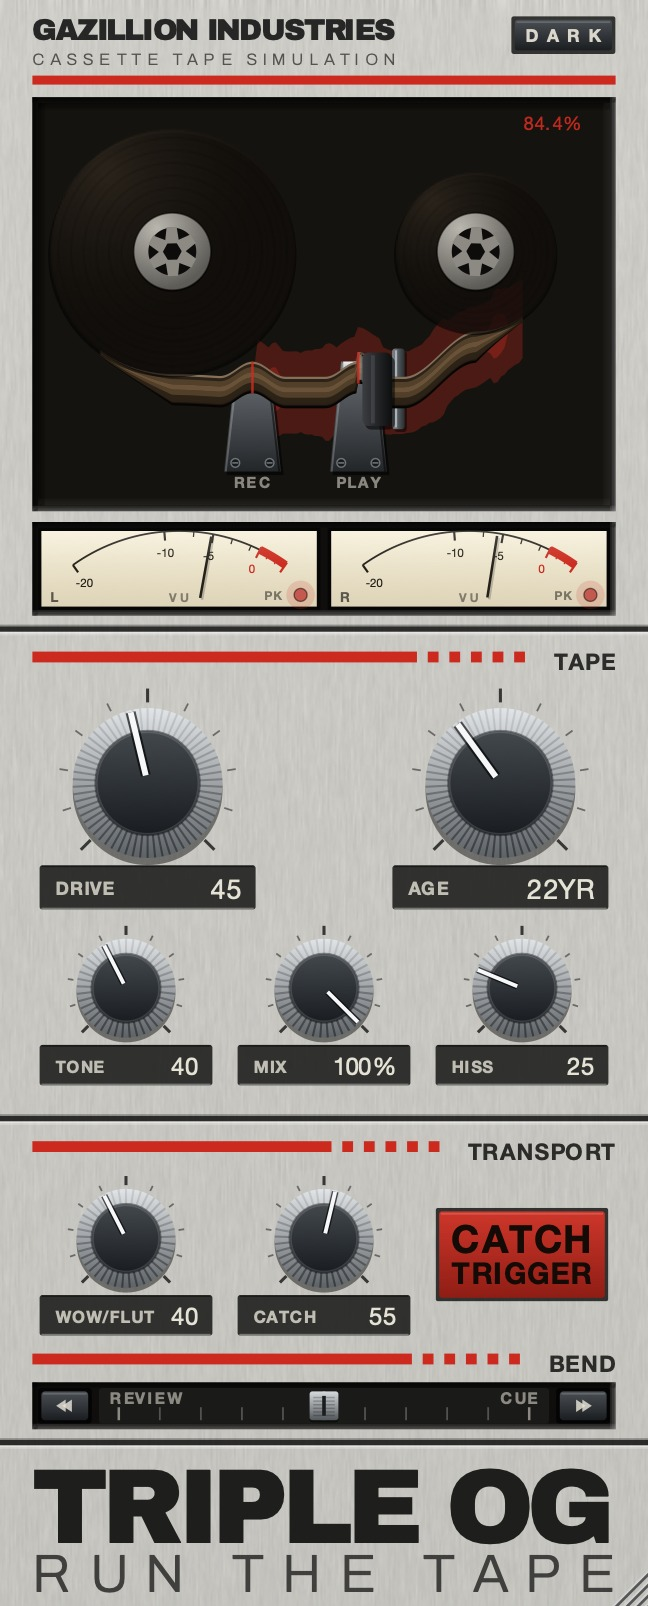
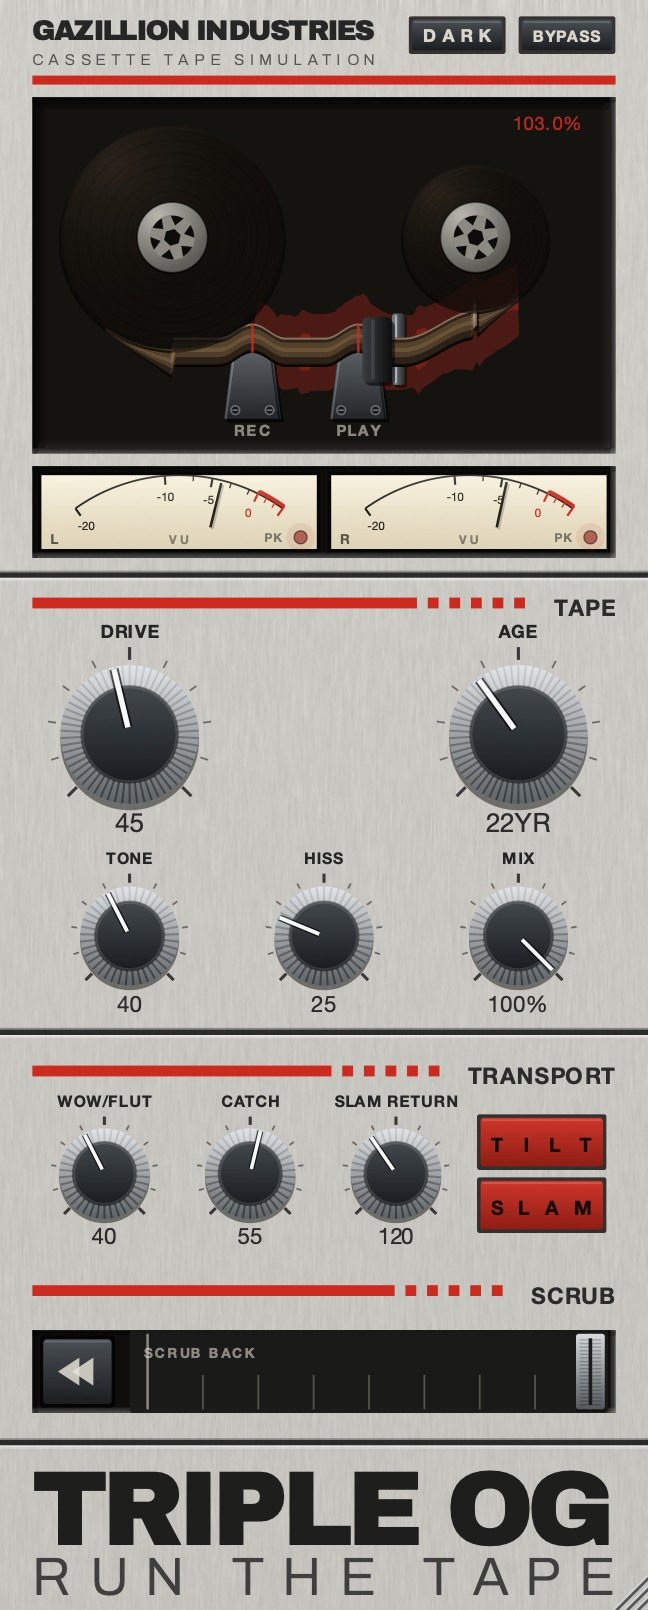
TRIPLE OG 1.1.0 panel imagery; version metadata for F(ilter)12 and TRIPLE OG
- tripleog/tripleog-dark.jpg and tripleog-light.jpg: re-rendered from the 1.1.0 editor
  (tools/uishot, same knob settings as before). The panel is now 648x1610, so width/height
  attributes move from 1606 to 1610 in tripleog.html and on the index.html shelf
- tripleog/og.jpg: same navy gradient and placement, 1.1.0 panel
- tripleog.html alt text and og:image:alt describe TILT, SLAM, SLAM RETURN and SCRUB
  instead of CATCH TRIGGER and BEND
- JSON-LD softwareVersion: F(ilter)12 1.0.1 -> 1.0.2, TRIPLE OG 1.0.0 -> 1.1.0
  (the versions on the store)

diff --git a/tripleog.html b/tripleog.html
@@ -158,7 +158,7 @@ window.GZ_ATTR = (function(){
 <meta property="og:image" content="https://gazillionindustries.com/tripleog/og.jpg">
 <meta property="og:image:width" content="1200">
 <meta property="og:image:height" content="630">
-<meta property="og:image:alt" content="The TRIPLE OG plug-in panel: two tape reels with the tape running between the record and play heads, a pair of VU meters, TAPE and TRANSPORT sections of knobs, and a BEND strip.">
+<meta property="og:image:alt" content="The TRIPLE OG plug-in panel: two tape reels with the tape running between the record and play heads, a pair of VU meters, TAPE and TRANSPORT sections of knobs, TILT and SLAM buttons, and a SCRUB strip.">
 <meta name="twitter:image" content="https://gazillionindustries.com/tripleog/og.jpg">
 <meta name="twitter:card" content="summary_large_image">
 <meta name="twitter:title" content="TRIPLE OG - cassette tape simulation">
@@ -167,7 +167,7 @@ window.GZ_ATTR = (function(){
      a file that is not there is worse than not claiming one - the card falls
      back to the image either way, but a broken video URL is cached. The four
      video tags come across from the sibling page the day the capture lands. -->
-<script type="application/ld+json">{"@context":"https://schema.org","@graph":[{"@type":"SoftwareApplication","name":"TRIPLE OG","applicationCategory":"MultimediaApplication","applicationSubCategory":"Audio plug-in","operatingSystem":"macOS 10.13 or later, Windows 10 or later","softwareVersion":"1.0.0","url":"https://gazillionindustries.com/tripleog.html","image":"https://gazillionindustries.com/tripleog/og.jpg","description":"A cassette transport plug-in for macOS and Windows. TONE, HISS, AGE in years, DRIVE and MIX shape the medium; WOW FLUT and CATCH are the transport, and CATCH is a stateful drag and recovery rather than more wobble. SCRUB is a hand on the tape: drag it back and the head runs back across the tape, let go and it rebounds home. SLAM is a tape stop. AU, VST3 and standalone.","featureList":["TONE: the playback system's brightness","HISS: a continuous broadband noise bed, partly decorrelated across the channels","AGE: nought to sixty years of deterioration, as one macro","DRIVE: soft asymmetric saturation with magnetic hysteresis, 2x oversampled","WOW FLUT: composite transport instability, not a single sine","CATCH: a stateful drag, jam and recovery engine, with a manual trigger","SCRUB: drag the head back across the tape, rebounds home on release","SLAM: a tape stop, with SLAM RETURN setting how long the stop takes","MIX, on the face, defaulting to 100%","Head gap loss that moves with the transport","Stereo VU meters against a 0 VU reference","A transport display: reels, tape, heads and the tension between them","Two finishes, black and brushed aluminium","Resizable window","Universal binary, Apple Silicon and Intel","Windows 10 or later, 64-bit, VST3","Works offline"],"keywords":"cassette plugin, tape plugin, wow and flutter VST, tape stop plugin, lo-fi tape, hiss plugin, tape saturation, boom bap, lo-fi hip hop, AU plugin, VST3, macOS audio plugin, windows VST3, tape transport, varispeed tape","softwareRequirements":"macOS 10.13 or later, or Windows 10 or later 64-bit; a host supporting AU or VST3, or none for the standalone","@id":"https://gazillionindustries.com/tripleog.html#tripleog","author":{"@id":"https://gazillionindustries.com/#tony"},"publisher":{"@id":"https://gazillionindustries.com/#gazillion"},"creator":{"@id":"https://gazillionindustries.com/#tony"},"installUrl":"https://gazillionindustries.com/tripleog.html","inLanguage":"en","offers":{"@type":"Offer","priceCurrency":"USD","price":"29.00","availability":"https://schema.org/InStock"}},{"@type":"Organization","@id":"https://gazillionindustries.com/#gazillion","name":"Gazillion Industries LLC","alternateName":"Gazillion Industries","url":"https://gazillionindustries.com/","email":"tony@gazillionindustries.com","founder":{"@id":"https://gazillionindustries.com/#tony"}},{"@type":"Person","@id":"https://gazillionindustries.com/#tony","name":"Tony Barko","alternateName":"Anthony Greg Barko","jobTitle":"Founder","worksFor":{"@id":"https://gazillionindustries.com/#gazillion"},"sameAs":["https://apps.apple.com/us/developer/anthony-greg-barko/id1866031805"]},{"@type":"WebSite","@id":"https://gazillionindustries.com/#website","url":"https://gazillionindustries.com/","name":"Gazillion Industries","inLanguage":"en","publisher":{"@id":"https://gazillionindustries.com/#gazillion"}}]}</script>
+<script type="application/ld+json">{"@context":"https://schema.org","@graph":[{"@type":"SoftwareApplication","name":"TRIPLE OG","applicationCategory":"MultimediaApplication","applicationSubCategory":"Audio plug-in","operatingSystem":"macOS 10.13 or later, Windows 10 or later","softwareVersion":"1.1.0","url":"https://gazillionindustries.com/tripleog.html","image":"https://gazillionindustries.com/tripleog/og.jpg","description":"A cassette transport plug-in for macOS and Windows. TONE, HISS, AGE in years, DRIVE and MIX shape the medium; WOW FLUT and CATCH are the transport, and CATCH is a stateful drag and recovery rather than more wobble. SCRUB is a hand on the tape: drag it back and the head runs back across the tape, let go and it rebounds home. SLAM is a tape stop. AU, VST3 and standalone.","featureList":["TONE: the playback system's brightness","HISS: a continuous broadband noise bed, partly decorrelated across the channels","AGE: nought to sixty years of deterioration, as one macro","DRIVE: soft asymmetric saturation with magnetic hysteresis, 2x oversampled","WOW FLUT: composite transport instability, not a single sine","CATCH: a stateful drag, jam and recovery engine, with a manual trigger","SCRUB: drag the head back across the tape, rebounds home on release","SLAM: a tape stop, with SLAM RETURN setting how long the stop takes","MIX, on the face, defaulting to 100%","Head gap loss that moves with the transport","Stereo VU meters against a 0 VU reference","A transport display: reels, tape, heads and the tension between them","Two finishes, black and brushed aluminium","Resizable window","Universal binary, Apple Silicon and Intel","Windows 10 or later, 64-bit, VST3","Works offline"],"keywords":"cassette plugin, tape plugin, wow and flutter VST, tape stop plugin, lo-fi tape, hiss plugin, tape saturation, boom bap, lo-fi hip hop, AU plugin, VST3, macOS audio plugin, windows VST3, tape transport, varispeed tape","softwareRequirements":"macOS 10.13 or later, or Windows 10 or later 64-bit; a host supporting AU or VST3, or none for the standalone","@id":"https://gazillionindustries.com/tripleog.html#tripleog","author":{"@id":"https://gazillionindustries.com/#tony"},"publisher":{"@id":"https://gazillionindustries.com/#gazillion"},"creator":{"@id":"https://gazillionindustries.com/#tony"},"installUrl":"https://gazillionindustries.com/tripleog.html","inLanguage":"en","offers":{"@type":"Offer","priceCurrency":"USD","price":"29.00","availability":"https://schema.org/InStock"}},{"@type":"Organization","@id":"https://gazillionindustries.com/#gazillion","name":"Gazillion Industries LLC","alternateName":"Gazillion Industries","url":"https://gazillionindustries.com/","email":"tony@gazillionindustries.com","founder":{"@id":"https://gazillionindustries.com/#tony"}},{"@type":"Person","@id":"https://gazillionindustries.com/#tony","name":"Tony Barko","alternateName":"Anthony Greg Barko","jobTitle":"Founder","worksFor":{"@id":"https://gazillionindustries.com/#gazillion"},"sameAs":["https://apps.apple.com/us/developer/anthony-greg-barko/id1866031805"]},{"@type":"WebSite","@id":"https://gazillionindustries.com/#website","url":"https://gazillionindustries.com/","name":"Gazillion Industries","inLanguage":"en","publisher":{"@id":"https://gazillionindustries.com/#gazillion"}}]}</script>
 <!-- Same Umami site and same Meta pixel as the sibling pages: one business, one
      property. Keeping them identical is what lets the pages be compared. -->
 <script defer src="https://cloud.umami.is/script.js"
@@ -808,12 +808,12 @@ h1.mark-block{font-size:inherit}
         </div>
       </div>
       <div class="slide">
-        <img src="tripleog/tripleog-light.jpg" width="648" height="1606"
+        <img src="tripleog/tripleog-light.jpg" width="648" height="1610"
              alt="The same TRIPLE OG panel on a brushed aluminium case, the printing dark and the vermilion accent held.">
       </div>
       <div class="slide">
-        <img src="tripleog/tripleog-dark.jpg" width="648" height="1606" loading="lazy"
-             alt="The TRIPLE OG panel in its black finish: two tape reels above the record and play heads with the tape rippling between them, stereo VU meters, a TAPE section with DRIVE, AGE, TONE, MIX and HISS, a TRANSPORT section with WOW/FLUT, CATCH and a CATCH TRIGGER button, and a BEND strip running from REVIEW to CUE.">
+        <img src="tripleog/tripleog-dark.jpg" width="648" height="1610" loading="lazy"
+             alt="The TRIPLE OG panel in its black finish: two tape reels above the record and play heads with the tape rippling between them, stereo VU meters, a TAPE section with DRIVE, AGE, TONE, MIX and HISS, a TRANSPORT section with WOW/FLUT, CATCH and SLAM RETURN beside TILT and SLAM buttons, and a SCRUB strip.">
       </div>
     </div>
     <button class="nav nav--prev" type="button" aria-label="Previous">&lsaquo;</button>

diff --git a/f12.html b/f12.html
@@ -171,7 +171,7 @@ window.GZ_ATTR = (function(){
 <meta property="og:video:type" content="video/mp4">
 <meta property="og:video:width" content="340">
 <meta property="og:video:height" content="980">
-<script type="application/ld+json">{"@context":"https://schema.org","@graph":[{"@type":"SoftwareApplication","name":"F(ilter)12","alternateName":"F12","applicationCategory":"MultimediaApplication","applicationSubCategory":"Audio plug-in","operatingSystem":"macOS 10.13 or later, Windows 10 or later","softwareVersion":"1.0.1","url":"https://gazillionindustries.com/f12.html","image":"https://gazillionindustries.com/f12/og.jpg","description":"A 12 bit sauce filter for macOS and Windows. AURA is an adaptive correction that moves with the source and sits a record better without sounding processed. Sample rate and bit reduction, five filter shapes, eight resonance shapes, a slope that feeds its own distortion back through itself, auto filter and sidechain. AU, VST3 and standalone.","featureList":["AURA adaptive enhancement, and MAX AURA","Sample rate and bit depth reduction","Five filter shapes: low-pass, high-pass, band-pass, notch and morph","Eight resonance shapes that travel with the filter","Slope that feeds its own distortion back through itself","Auto filter driven by a clock, with swing","Sidechain that follows another signal","Visualizer that pops out into its own window","Resizable window","Zero latency","Universal binary, Apple Silicon and Intel","Works offline"],"keywords":"lofi plugin, 12 bit, bitcrusher, sample rate reduction, filter plugin, resonant filter VST, auto filter, sidechain filter, lo-fi hip hop, boom bap, sampler sound, AU plugin, VST3, macOS audio plugin, character filter","softwareRequirements":"macOS 10.13 or later, or Windows 10 or later 64-bit; a host supporting AU or VST3, or none for the standalone","@id":"https://gazillionindustries.com/f12.html#f12","author":{"@id":"https://gazillionindustries.com/#tony"},"publisher":{"@id":"https://gazillionindustries.com/#gazillion"},"creator":{"@id":"https://gazillionindustries.com/#tony"},"installUrl":"https://gazillionindustries.com/f12.html","datePublished":"2026-09-01","inLanguage":"en","offers":{"@type":"Offer","priceCurrency":"USD","price":"49.00","availability":"https://schema.org/InStock"},"video":{"@id":"https://gazillionindustries.com/f12.html#demo"},"screenshot":"https://gazillionindustries.com/f12/f12-demo-20260909-poster.jpg"},{"@type":"VideoObject","@id":"https://gazillionindustries.com/f12.html#demo","name":"F(ilter)12 demo","description":"The F(ilter)12 plug-in demonstrated over a loop.","thumbnailUrl":"https://gazillionindustries.com/f12/f12-demo-20260909-poster.jpg","contentUrl":"https://gazillionindustries.com/f12/f12-demo-20260909.mp4","uploadDate":"2026-09-09","duration":"PT28S","width":1080,"height":1920,"inLanguage":"en","isPartOf":{"@id":"https://gazillionindustries.com/f12.html#f12"}},{"@type":"Organization","@id":"https://gazillionindustries.com/#gazillion","name":"Gazillion Industries LLC","alternateName":"Gazillion Industries","url":"https://gazillionindustries.com/","email":"tony@gazillionindustries.com","founder":{"@id":"https://gazillionindustries.com/#tony"}},{"@type":"Person","@id":"https://gazillionindustries.com/#tony","name":"Tony Barko","alternateName":"Anthony Greg Barko","jobTitle":"Founder","worksFor":{"@id":"https://gazillionindustries.com/#gazillion"},"sameAs":["https://apps.apple.com/us/developer/anthony-greg-barko/id1866031805"]},{"@type":"WebSite","@id":"https://gazillionindustries.com/#website","url":"https://gazillionindustries.com/","name":"Gazillion Industries","inLanguage":"en","publisher":{"@id":"https://gazillionindustries.com/#gazillion"}}]}</script>
+<script type="application/ld+json">{"@context":"https://schema.org","@graph":[{"@type":"SoftwareApplication","name":"F(ilter)12","alternateName":"F12","applicationCategory":"MultimediaApplication","applicationSubCategory":"Audio plug-in","operatingSystem":"macOS 10.13 or later, Windows 10 or later","softwareVersion":"1.0.2","url":"https://gazillionindustries.com/f12.html","image":"https://gazillionindustries.com/f12/og.jpg","description":"A 12 bit sauce filter for macOS and Windows. AURA is an adaptive correction that moves with the source and sits a record better without sounding processed. Sample rate and bit reduction, five filter shapes, eight resonance shapes, a slope that feeds its own distortion back through itself, auto filter and sidechain. AU, VST3 and standalone.","featureList":["AURA adaptive enhancement, and MAX AURA","Sample rate and bit depth reduction","Five filter shapes: low-pass, high-pass, band-pass, notch and morph","Eight resonance shapes that travel with the filter","Slope that feeds its own distortion back through itself","Auto filter driven by a clock, with swing","Sidechain that follows another signal","Visualizer that pops out into its own window","Resizable window","Zero latency","Universal binary, Apple Silicon and Intel","Works offline"],"keywords":"lofi plugin, 12 bit, bitcrusher, sample rate reduction, filter plugin, resonant filter VST, auto filter, sidechain filter, lo-fi hip hop, boom bap, sampler sound, AU plugin, VST3, macOS audio plugin, character filter","softwareRequirements":"macOS 10.13 or later, or Windows 10 or later 64-bit; a host supporting AU or VST3, or none for the standalone","@id":"https://gazillionindustries.com/f12.html#f12","author":{"@id":"https://gazillionindustries.com/#tony"},"publisher":{"@id":"https://gazillionindustries.com/#gazillion"},"creator":{"@id":"https://gazillionindustries.com/#tony"},"installUrl":"https://gazillionindustries.com/f12.html","datePublished":"2026-09-01","inLanguage":"en","offers":{"@type":"Offer","priceCurrency":"USD","price":"49.00","availability":"https://schema.org/InStock"},"video":{"@id":"https://gazillionindustries.com/f12.html#demo"},"screenshot":"https://gazillionindustries.com/f12/f12-demo-20260909-poster.jpg"},{"@type":"VideoObject","@id":"https://gazillionindustries.com/f12.html#demo","name":"F(ilter)12 demo","description":"The F(ilter)12 plug-in demonstrated over a loop.","thumbnailUrl":"https://gazillionindustries.com/f12/f12-demo-20260909-poster.jpg","contentUrl":"https://gazillionindustries.com/f12/f12-demo-20260909.mp4","uploadDate":"2026-09-09","duration":"PT28S","width":1080,"height":1920,"inLanguage":"en","isPartOf":{"@id":"https://gazillionindustries.com/f12.html#f12"}},{"@type":"Organization","@id":"https://gazillionindustries.com/#gazillion","name":"Gazillion Industries LLC","alternateName":"Gazillion Industries","url":"https://gazillionindustries.com/","email":"tony@gazillionindustries.com","founder":{"@id":"https://gazillionindustries.com/#tony"}},{"@type":"Person","@id":"https://gazillionindustries.com/#tony","name":"Tony Barko","alternateName":"Anthony Greg Barko","jobTitle":"Founder","worksFor":{"@id":"https://gazillionindustries.com/#gazillion"},"sameAs":["https://apps.apple.com/us/developer/anthony-greg-barko/id1866031805"]},{"@type":"WebSite","@id":"https://gazillionindustries.com/#website","url":"https://gazillionindustries.com/","name":"Gazillion Industries","inLanguage":"en","publisher":{"@id":"https://gazillionindustries.com/#gazillion"}}]}</script>
 <!-- Same Umami site and same Meta pixel as the sibling page: one business, one
      property. Keeping them identical is what lets the two pages be compared. -->
 <script defer src="https://cloud.umami.is/script.js"

diff --git a/index.html b/index.html
@@ -587,7 +587,7 @@ a{color:inherit;text-decoration:none}
 
       <article class="unit" style="--accent:#ff6a45;--cta-ink:#0b0a09">
         <a class="cardlink" href="/tripleog.html" data-product="tripleog" data-name="TRIPLE OG" data-value="29.00" aria-label="TRIPLE OG, cassette tape simulation. $29."></a>
-        <div class="shot"><img src="tripleog/tripleog-dark.jpg" width="648" height="1606" alt="" loading="lazy" decoding="async"></div>
+        <div class="shot"><img src="tripleog/tripleog-dark.jpg" width="648" height="1610" alt="" loading="lazy" decoding="async"></div>
         <div class="legend">
           <p class="mark mark--text">TRIPLE OG</p>
           <p class="jt sub">cassette tape simulation</p>
